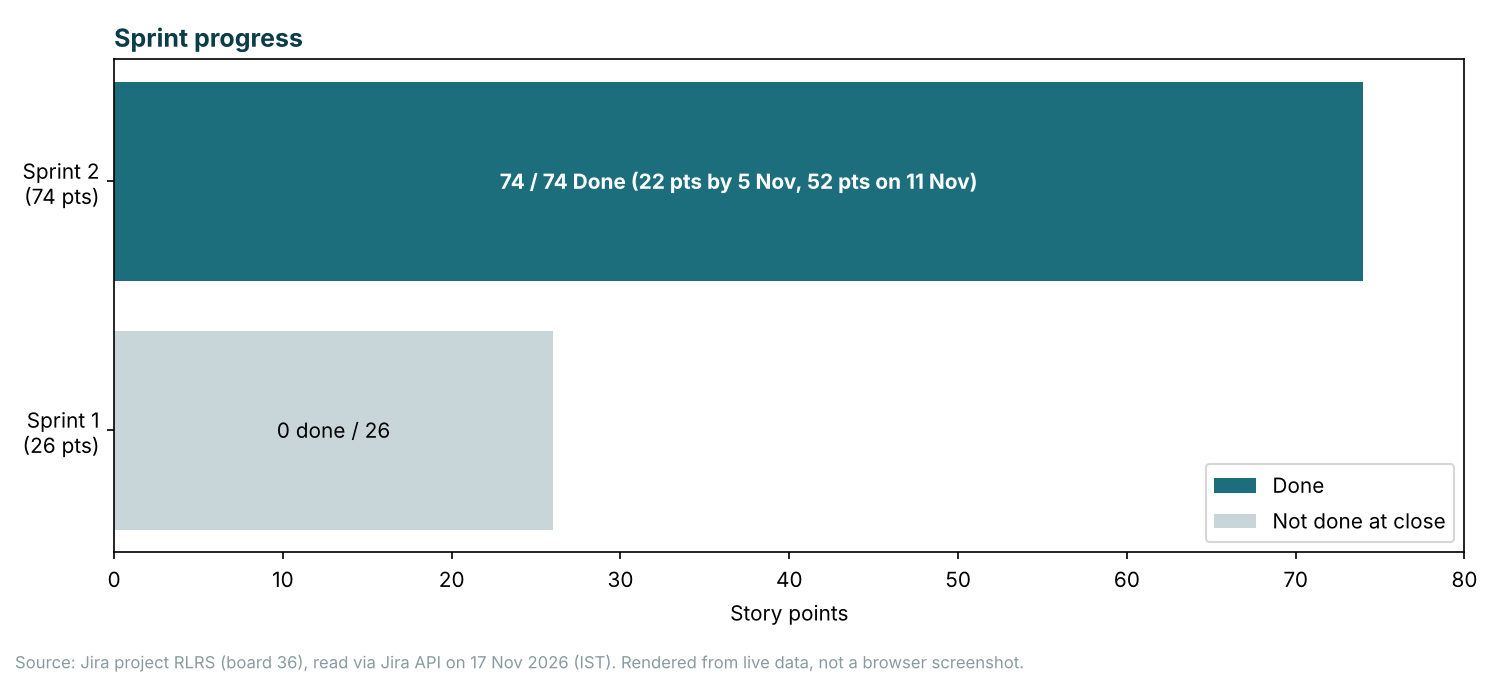
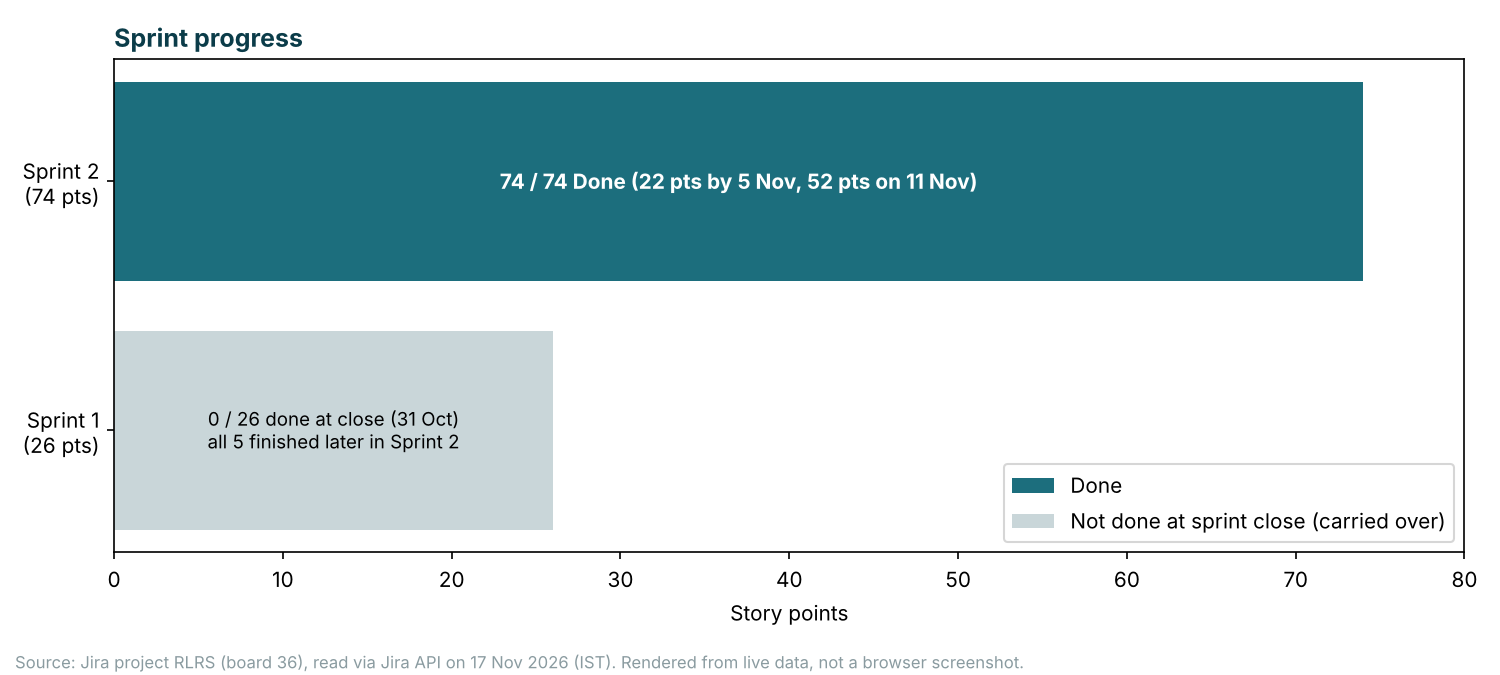
docs: clarify Sprint 1 bar in sprint progress chart
Claude-Session: https://claude.ai/code/session_01PivaPGaaG1NsKZt8VZpiqi

Changed region(s): [[0.6747, 0.6844, 0.9813, 0.8089], [0.1227, 0.5911, 0.3067, 0.6844]]

diff --git a/MIni Project/jira_evidence/generate_images.py b/MIni Project/jira_evidence/generate_images.py
@@ -61,9 +61,9 @@ burn("Burndown - Sprint 2 - Build and Test (74 pts scope)",74,s2s,s2e,[(p,t) for
 # progress
 fig,ax=plt.subplots(figsize=(10,4.5))
 lab=["Sprint 1\n(26 pts)","Sprint 2\n(74 pts)"]
-ax.barh(lab,[0,74],color=TEAL,label="Done"); ax.barh(lab,[26,0],left=[0,74],color="#C9D6D9",label="Not done at close")
+ax.barh(lab,[0,74],color=TEAL,label="Done"); ax.barh(lab,[26,0],left=[0,74],color="#C9D6D9",label="Not done at sprint close (carried over)")
 ax.barh(["Sprint 2\n(74 pts)"],[22],color=AMB,label="Done by sprint end (5 Nov): 22 pts") if False else None
-ax.text(13,0,"0 done / 26",ha="center",va="center"); ax.text(37,1,"74 / 74 Done (22 pts by 5 Nov, 52 pts on 11 Nov)",ha="center",va="center",color="white",weight="bold")
+ax.text(13,0,"0 / 26 done at close (31 Oct)\nall 5 finished later in Sprint 2",ha="center",va="center",fontsize=9); ax.text(37,1,"74 / 74 Done (22 pts by 5 Nov, 52 pts on 11 Nov)",ha="center",va="center",color="white",weight="bold")
 ax.set_xlim(0,80); ax.set_xlabel("Story points"); ax.legend(loc="lower right"); ax.set_title("Sprint progress",color=NAVY,weight="bold",loc="left")
 fig.text(.01,.01,SRC,fontsize=8,color=GREY); fig.tight_layout(rect=[0,.04,1,1]); fig.savefig("07_sprint_progress.png",dpi=150); plt.close(fig)
 # dashboard
